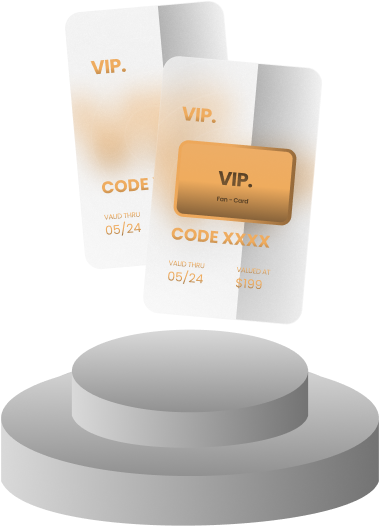
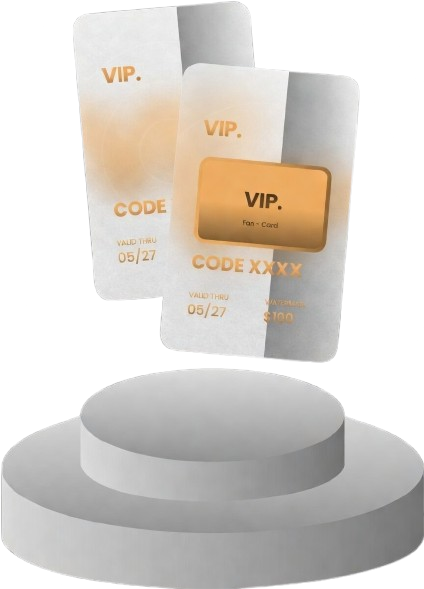
changing outdated card

diff --git a/src/app/purchase/components/Purchase.tsx b/src/app/purchase/components/Purchase.tsx
@@ -4,10 +4,10 @@ import React, { Suspense } from "react";
 import { Icon } from "@iconify/react/dist/iconify.js";
 import searchIcon from "@iconify/icons-mdi/magnify";
 import Image, { StaticImageData } from "next/image";
-import regular from "../../../assets/regular.png";
-import prime from "../../../assets/prime.png";
-import premium from "../../../assets/premium.png";
-import vip from "../../../assets/vip.png";
+import regular from "../../../assets/regular.jpg";
+import prime from "../../../assets/prime.jpg";
+import premium from "../../../assets/premium.jpg";
+import vip from "../../../assets/vip.jpg";
 import CardDetailPage from "./[id]";
 import { cards } from "@/utils/cards";
 import { useRouter, useSearchParams } from "next/navigation";
@@ -34,7 +34,7 @@ const FanCards: React.FC<FanCardsProps> = ({ fanCards, onCardClick }) => {
           <div>
             <Image
               src={image}
-              className="w-[172.55px] lg:w-[282.55px] h-[270.91px] lg:h-[330px] object-contain"
+              className="w-[172.55px] lg:w-[282.55px] h-[270.91px] lg:h-[330px] object-contain rounded-3xl"
               alt={`${rank} Fan-card`}
             />
           </div>

diff --git a/src/utils/cards.ts b/src/utils/cards.ts
@@ -11,7 +11,7 @@ export const cards = [
       "Access to basic content and public events.",
       "Participation in polls and competitions.",
     ],
-    image: "/img/regular-card.png", // Example image path
+    image: "/img/regular-card.jpg", // Example image path
   },
   {
     id: 2,
@@ -23,7 +23,7 @@ export const cards = [
       "Priority voting rights in polls.",
       "Discounts in the merch store.",
     ],
-    image: "/img/prime-card.png", // Example image path
+    image: "/img/prime-card.jpg", // Example image path
   },
   {
     id: 3,
@@ -35,7 +35,7 @@ export const cards = [
       "Access to premium content (private Q&As, artist shoutouts).",
       "Invitations to virtual meet-and-greets.",
     ],
-    image: "/img/premium-card.png", // Example image path
+    image: "/img/premium-card.jpg", // Example image path
   },
   {
     id: 4,
@@ -48,7 +48,7 @@ export const cards = [
       "Personalized artist shoutouts.",
       "Limited-edition collectibles and free merch gifts.",
     ],
-    image: "/img/vip-card.png", // Example image path
+    image: "/img/vip-card.jpg", // Example image path
   },
   // Add more card objects as needed
 ];

diff --git a/src/app/landing/components/Fancard.tsx b/src/app/landing/components/Fancard.tsx
@@ -2,10 +2,10 @@
 import React, { useEffect, useCallback } from 'react';
 import useEmblaCarousel from 'embla-carousel-react';
 import Image from 'next/image';
-import regular from '../../../assets/regular.png'
-import prime from '../../../assets/prime.png'
-import premium from '../../../assets/premium.png'
-import vip from '../../../assets/vip.png'
+import regular from '../../../assets/regular.jpg'
+import prime from '../../../assets/prime.jpg'
+import premium from '../../../assets/premium.jpg'
+import vip from '../../../assets/vip.jpg'
 import Link from 'next/link';
 
 const Fancard: React.FC = () => {
@@ -73,7 +73,7 @@ const Fancard: React.FC = () => {
                 "
                 >
                   <div className="w-full h-full">
-                    <Image src={image} alt="alt" className="w-full h-full object-cover" />
+                    <Image src={image} alt="alt" className="rounded-3xl w-full h-full object-cover" />
                   </div>
                 </Link>
               ))}

diff --git a/src/app/purchase/components/[id].tsx b/src/app/purchase/components/[id].tsx
@@ -63,7 +63,7 @@ const CardDetailPage = ({ card: { title, value, benefits, image }, onClose }: { 
 
           <div className='sm:flex items-center'>
             <div className='w-full lg:w-[70%] h-full flex-[2]'>
-              <Image src={image} alt="alt" width={507} height={251} />
+              <Image src={image} alt="alt" width={407} height={251} className='rounded-3xl' />
             </div>
 
             <div className='flex-1 w-full'>
